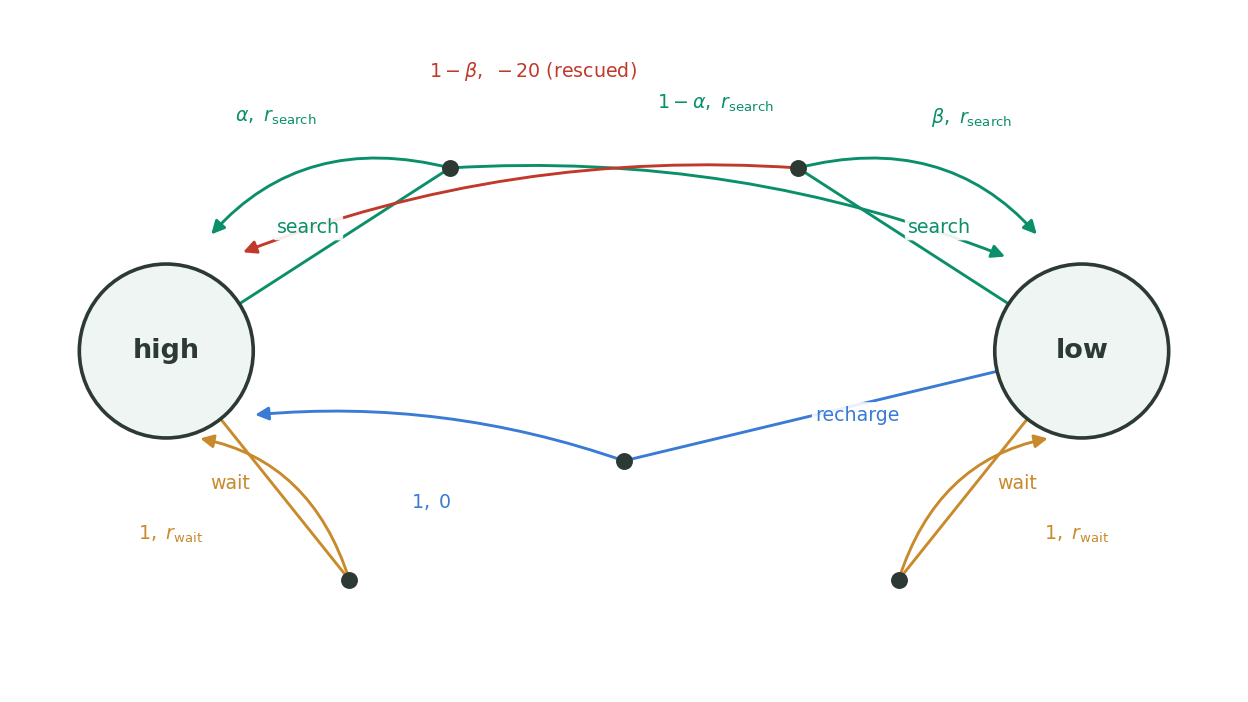
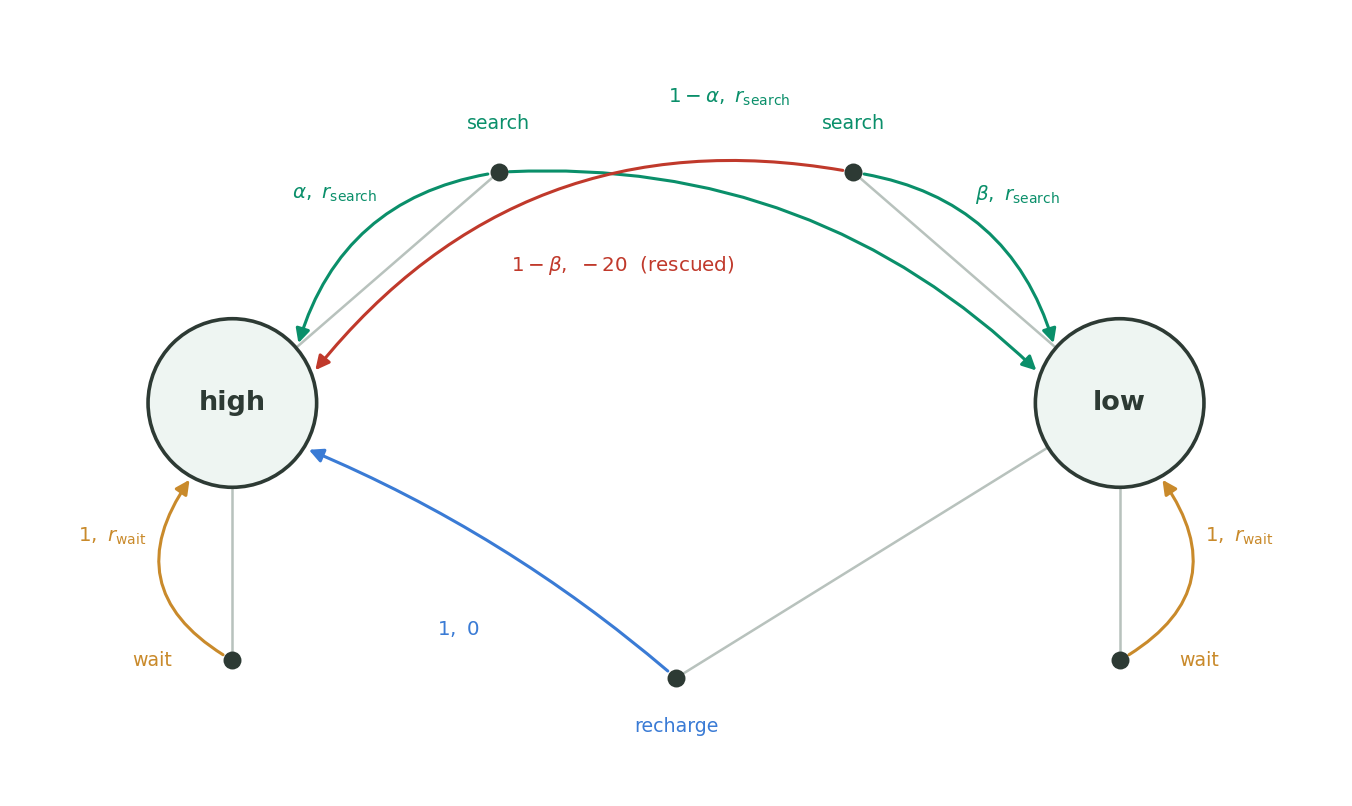
Redesign recycling-robot MDP diagram: clean self-loops and label layout

diff --git a/blog/rl/popular-courses/fundamentals-of-rl/figures/gen_mdp.py b/blog/rl/popular-courses/fundamentals-of-rl/figures/gen_mdp.py
@@ -97,15 +97,18 @@ def fig_return_example():
 def fig_recycling_robot():
     """Transition graph for the recycling-robot MDP (Sutton & Barto, Ex. 3.3).
 
-    Two states (high, low). Solid dots are (state, action) pairs; arrows leave
-    them to next states, each labelled with its transition probability and the
-    reward earned on that transition.
+    Two states (high, low). Solid dots are (state, action) pairs; a thin grey
+    stub connects each state to its action dots, and a coloured arrow leaves
+    every dot for the resulting next state, labelled with the transition
+    probability and the reward earned on that transition.
     """
+    import numpy as np
     from matplotlib.patches import Circle, FancyArrowPatch
+    import matplotlib.lines as mlines
 
-    fig, ax = plt.subplots(figsize=(9.6, 5.4))
-    ax.set_xlim(-1.4, 11.4)
-    ax.set_ylim(-3.6, 3.6)
+    fig, ax = plt.subplots(figsize=(10.4, 6.2))
+    ax.set_xlim(-2.2, 12.2)
+    ax.set_ylim(-4.3, 4.3)
     ax.axis("off")
     ax.set_aspect("equal")
 
@@ -113,94 +116,99 @@ def fig_recycling_robot():
     WAIT = BRAND2
     RECHARGE = "#3a7bd5"
     RESCUE = "#c0392b"
+    STUB = "#b8c2bd"
+    R = 0.95
 
-    # State nodes
     states = {"high": (0.0, 0.0), "low": (10.0, 0.0)}
-    for name, (x, y) in states.items():
-        ax.add_patch(Circle((x, y), 0.95, facecolor="#eef5f2",
-                             edgecolor=INK, lw=2.0, zorder=3))
-        ax.text(x, y, name, ha="center", va="center",
-                fontsize=15, fontweight="bold", color=INK, zorder=4)
-
-    # Action nodes (solid dots)
     actions = {
-        "h_search": (3.1, 2.0),
-        "h_wait":   (2.0, -2.5),
-        "l_search": (6.9, 2.0),
-        "l_wait":   (8.0, -2.5),
-        "l_recharge": (5.0, -1.2),
+        "h_search":   (3.0, 2.6),
+        "h_wait":     (0.0, -2.9),
+        "l_search":   (7.0, 2.6),
+        "l_wait":     (10.0, -2.9),
+        "l_recharge": (5.0, -3.1),
     }
-    for (x, y) in actions.values():
-        ax.scatter([x], [y], s=70, color=INK, zorder=5)
 
-    def stub(s, a, col):
-        """Short line from a state circle edge to its action dot."""
-        sx, sy = states[s]
-        ax, ay = actions[a]
-        dx, dy = ax - sx, ay - sy
+    def edge_pt(state, toward, gap=0.0):
+        """Point on the rim of a state circle in the direction of `toward`."""
+        sx, sy = states[state]
+        tx, ty = toward
+        dx, dy = tx - sx, ty - sy
         d = (dx * dx + dy * dy) ** 0.5
-        sx2, sy2 = sx + dx / d * 0.95, sy + dy / d * 0.95
-        return sx2, sy2, ax, ay, col
+        return sx + dx / d * (R + gap), sy + dy / d * (R + gap)
 
-    import matplotlib.lines as mlines
+    def stub(state, akey):
+        sx, sy = edge_pt(state, actions[akey])
+        ax_, ay_ = actions[akey]
+        ax.add_line(mlines.Line2D([sx, ax_], [sy, ay_], color=STUB, lw=1.4,
+                                  zorder=1, solid_capstyle="round"))
 
-    def line(x1, y1, x2, y2, col):
-        ax.add_line(mlines.Line2D([x1, x2], [y1, y2], color=col, lw=1.6, zorder=2))
-
-    def arrow(x1, y1, x2, y2, col, rad=0.0, shrinkB=24):
+    def arrow(akey, target_state, col, rad=0.0):
+        ax_, ay_ = actions[akey]
+        tx, ty = edge_pt(target_state, actions[akey], gap=0.02)
         ax.add_patch(FancyArrowPatch(
-            (x1, y1), (x2, y2), connectionstyle=f"arc3,rad={rad}",
-            arrowstyle="-|>", mutation_scale=15, lw=1.6, color=col,
-            shrinkA=0, shrinkB=shrinkB, zorder=2))
+            (ax_, ay_), (tx, ty), connectionstyle=f"arc3,rad={rad}",
+            arrowstyle="-|>", mutation_scale=16, lw=1.7, color=col,
+            shrinkA=6, shrinkB=2, zorder=2))
 
-    def alabel(x, y, txt, col, dy=0.0):
-        ax.text(x, y + dy, txt, ha="center", va="center", fontsize=10.5,
-                color=col, zorder=6,
-                bbox=dict(boxstyle="round,pad=0.18", fc="white", ec="none", alpha=0.9))
+    def loop(akey, state, col, side=+1):
+        """Self-return arrow from an action dot back to its own state,
+        bowed out to one side so it reads as a clear loop."""
+        ax_, ay_ = actions[akey]
+        tx, ty = edge_pt(state, (actions[akey][0] + side * 1.6, actions[akey][1]))
+        ax.add_patch(FancyArrowPatch(
+            (ax_, ay_), (tx, ty), connectionstyle=f"arc3,rad={0.55*side}",
+            arrowstyle="-|>", mutation_scale=16, lw=1.7, color=col,
+            shrinkA=6, shrinkB=2, zorder=2))
 
-    # state -> action stubs + action labels
-    for s, a, col, lab, lpos in [
-        ("high", "h_search", SEARCH, "search", (1.55, 1.35)),
-        ("high", "h_wait", WAIT, "wait", (0.7, -1.45)),
-        ("low", "l_search", SEARCH, "search", (8.45, 1.35)),
-        ("low", "l_wait", WAIT, "wait", (9.3, -1.45)),
-        ("low", "l_recharge", RECHARGE, "recharge", (7.55, -0.7)),
-    ]:
-        x1, y1, x2, y2, c = stub(s, a, col)
-        line(x1, y1, x2, y2, c)
-        alabel(lpos[0], lpos[1], lab, col)
+    def lbl(x, y, txt, col, fs=11):
+        ax.text(x, y, txt, ha="center", va="center", fontsize=fs, color=col,
+                zorder=6, bbox=dict(boxstyle="round,pad=0.2", fc="white",
+                                    ec="none", alpha=0.92))
 
-    hx, hy = states["high"]
-    lx, ly = states["low"]
+    # stubs (state -> its action dots)
+    for st, ak in [("high", "h_search"), ("high", "h_wait"),
+                   ("low", "l_search"), ("low", "l_wait"), ("low", "l_recharge")]:
+        stub(st, ak)
 
-    # high, search -> high (alpha) and -> low (1-alpha)
-    ax_, ay_ = actions["h_search"]
-    arrow(ax_, ay_, hx + 0.2, hy + 0.9, SEARCH, rad=0.35)
-    alabel(1.2, 2.55, r"$\alpha,\ r_{\mathrm{search}}$", SEARCH)
-    arrow(ax_, ay_, lx - 0.4, ly + 0.85, SEARCH, rad=-0.12)
-    alabel(6.0, 2.7, r"$1-\alpha,\ r_{\mathrm{search}}$", SEARCH)
+    # action dots
+    for (x, y) in actions.values():
+        ax.scatter([x], [y], s=80, color=INK, zorder=5)
 
-    # high, wait -> high (1)
-    ax_, ay_ = actions["h_wait"]
-    arrow(ax_, ay_, hx - 0.1, hy - 0.9, WAIT, rad=0.35)
-    alabel(0.05, -2.0, r"$1,\ r_{\mathrm{wait}}$", WAIT)
+    # state circles (drawn on top of stubs/dots)
+    for name, (x, y) in states.items():
+        ax.add_patch(Circle((x, y), R, facecolor="#eef5f2",
+                             edgecolor=INK, lw=2.0, zorder=4))
+        ax.text(x, y, name, ha="center", va="center",
+                fontsize=15, fontweight="bold", color=INK, zorder=5)
 
-    # low, search -> low (beta) and -> high (1-beta), rescued, reward -3
-    ax_, ay_ = actions["l_search"]
-    arrow(ax_, ay_, lx - 0.2, ly + 0.9, SEARCH, rad=-0.35)
-    alabel(8.8, 2.55, r"$\beta,\ r_{\mathrm{search}}$", SEARCH)
-    arrow(ax_, ay_, hx + 0.4, hy + 0.9, RESCUE, rad=0.12)
-    alabel(4.0, 3.05, r"$1-\beta,\ -20$ (rescued)", RESCUE)
+    # action-name tags next to each dot
+    lbl(3.0, 3.15, "search", SEARCH, fs=10.5)
+    lbl(7.0, 3.15, "search", SEARCH, fs=10.5)
+    lbl(-0.9, -2.9, "wait", WAIT, fs=10.5)
+    lbl(10.9, -2.9, "wait", WAIT, fs=10.5)
+    lbl(5.0, -3.65, "recharge", RECHARGE, fs=10.5)
 
-    # low, wait -> low (1)
-    ax_, ay_ = actions["l_wait"]
-    arrow(ax_, ay_, lx + 0.1, ly - 0.9, WAIT, rad=-0.35)
-    alabel(9.95, -2.0, r"$1,\ r_{\mathrm{wait}}$", WAIT)
+    # high / search  ->  high (alpha)  and  low (1 - alpha)
+    arrow("h_search", "high", SEARCH, rad=0.32)
+    lbl(1.15, 2.35, r"$\alpha,\ r_{\mathrm{search}}$", SEARCH)
+    arrow("h_search", "low", SEARCH, rad=-0.22)
+    lbl(5.6, 3.45, r"$1-\alpha,\ r_{\mathrm{search}}$", SEARCH)
 
-    # low, recharge -> high (1, reward 0)
-    ax_, ay_ = actions["l_recharge"]
-    arrow(ax_, ay_, hx + 0.5, hy - 0.75, RECHARGE, rad=0.12)
-    alabel(2.9, -1.65, r"$1,\ 0$", RECHARGE)
+    # low / search  ->  low (beta)  and  high (1 - beta, rescued)
+    arrow("l_search", "low", SEARCH, rad=-0.32)
+    lbl(8.85, 2.35, r"$\beta,\ r_{\mathrm{search}}$", SEARCH)
+    arrow("l_search", "high", RESCUE, rad=0.30)
+    lbl(4.4, 1.55, r"$1-\beta,\ -20$  (rescued)", RESCUE)
+
+    # wait loops (deterministic self-returns)
+    loop("h_wait", "high", WAIT, side=-1)
+    lbl(-1.35, -1.5, r"$1,\ r_{\mathrm{wait}}$", WAIT)
+    loop("l_wait", "low", WAIT, side=+1)
+    lbl(11.35, -1.5, r"$1,\ r_{\mathrm{wait}}$", WAIT)
+
+    # recharge -> high (deterministic, reward 0)
+    arrow("l_recharge", "high", RECHARGE, rad=0.08)
+    lbl(2.55, -2.55, r"$1,\ 0$", RECHARGE)
 
     fig.tight_layout()
     fig.savefig(os.path.join(HERE, "recycling-robot-mdp.png"))